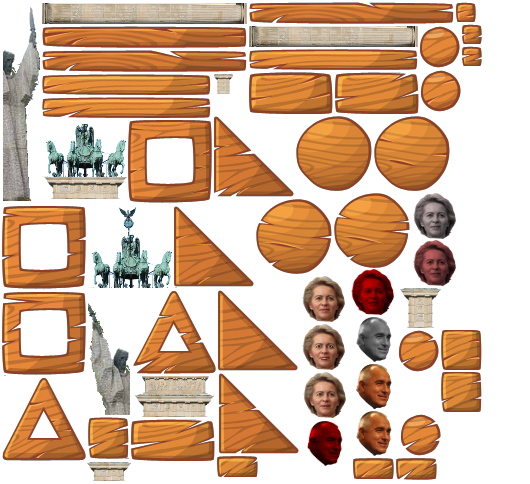
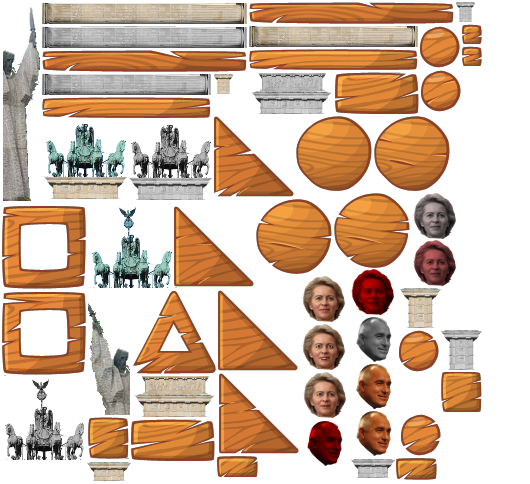
Defined asset damage creation process

diff --git a/assets/README.md b/assets/README.md
@@ -1,0 +1,6 @@
+Damageable sprite processing:
+
+1. Fresh/untouched
+2. Hit, but yet untouched
+3. Damaged, grayscale - saturation at 0
+4. Falling appart, only red (and alpha) channel
